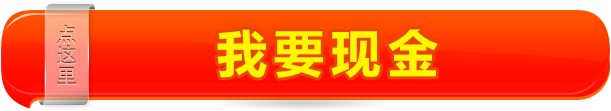
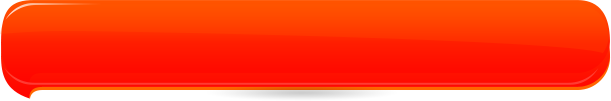
feat(share-spring-home.html&activity.less): change home-btn
更改新年点赞活动首页按钮展示形式

diff --git a/app/views/activity/share-spring-home.html b/app/views/activity/share-spring-home.html
@@ -19,13 +19,18 @@
 			  </div>
 			</div>
   	</div>
-  	<div class="padding-l-2 padding-r-2" ng-click="openFreeWish()"><img src="/images/activity/index-005.png" alt="" width="100%"></div>
+  	<div class="padding-l-2 padding-r-2 open-wish" ng-click="openFreeWish()">
+  		<img src="/images/activity/index-005.png" alt="" width="100%">
+  		<div class="open-btn">
+  			我要现金
+  		</div>
+  	</div>
   	<div class="padding-l-2 padding-r-2">
   		<div class="list-tips">
   			<div class="left-line fl"></div>
   			<div class="tips-content">砸罐小能手</div>
   			<div class="right-line fr"></div>
-  		</div>	
+  		</div>
   	</div>
   	<div class="padding-l-1 padding-r-1">
       <div class="list-content" ng-show="freeWishes.length > 0 ">

diff --git a/app/styles/activity.less b/app/styles/activity.less
@@ -639,6 +639,30 @@ input::-webkit-inner-spin-button {
         margin-right:9rem;
       }
     }
+    .open-wish{
+      position: relative;
+      width: 100%;
+    }
+    .open-btn{
+      position: absolute;
+      bottom: 16%;
+      left:0;
+      right:0;
+      text-align: center;
+      color:#ffe319;
+      font-size: 2.5rem;
+      font-weight: bold;
+      text-shadow:0 2px 2px #e94606;
+    }
+    @media (min-width: 320px){
+      .open-btn{bottom:12%;}
+    }
+    @media (min-width: 375px){
+      .open-btn{bottom:16%;}
+    }
+    @media (min-width: 414px){
+      .open-btn{bottom:18%;}
+    }
     .list-tips{
       width: 100%;
       height: 36px;
